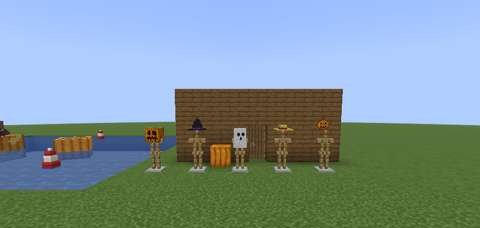
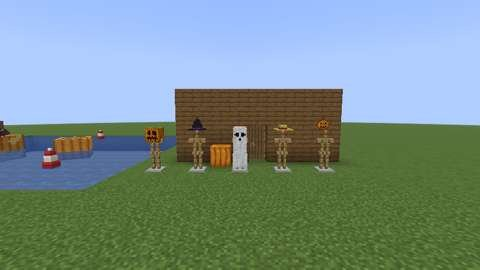
Document the draped Ghost Sheet
Feature record (what it looks like, how it is drawn, CI results on
449f61b: 199 game tests pass, client test passes, and what CI found on
the way), the Agriculture branch page with the new screenshots, and the
CHANGELOG.

Claude-Session: https://claude.ai/code/session_0126hvNUCuThWzVv935m75NC

diff --git a/docs/features/pumpkin-regatta-and-trick-or-treat.md b/docs/features/pumpkin-regatta-and-trick-or-treat.md
@@ -28,7 +28,7 @@ Primary specialty and supported player role: farming and play; supports groups (
    - someone lives there: a villager whose bed is within 12 blocks of the door.
 5. **Treat.** The villager opens the door and hands you a treat: candy corn, caramel, cookies, a popcorn ball, a caramel apple or, rarely, the **King-Size Candy Bar** (8 hunger), only from villagers. In a costume hat, one time in four you get a second treat. Each villager's home gives each player **one treat a night**.
 6. **Trick.** Knock at a home that has already given you a treat tonight and you get a harmless prank: a witch's cackle and a little hop, a flurry of bats and a moment of darkness, or the door slammed with a "no". Nothing is taken. Ten homes in one night earns the **Full Bag** advancement.
-7. **Costumes.** The **Witch Hat** (black wool and purple dye), the **Ghost Sheet** (white wool and black dye; you look out through its eye holes) and the **Scarecrow Hat** (wheat) go in the head slot and show on players and armor stands. Hand-carved pumpkins can now be worn too, like vanilla's carved pumpkin: you look out through the carving, and endermen take them as a disguise.
+7. **Costumes.** The **Witch Hat** (black wool and purple dye), the **Ghost Sheet** (white wool and black dye; it drapes over the whole wearer, a hood with eye holes over the head and the sheet over the body and arms to below the knees, moving with them; you look out through its eye holes) and the **Scarecrow Hat** (wheat) go in the head slot and show on players and armor stands. Hand-carved pumpkins can now be worn too, like vanilla's carved pumpkin: you look out through the carving, and endermen take them as a disguise.
 
 ## Connections
 - Existing input producer: the giant pumpkin and Carving Knife (boats), the Harvest Scale's ribbons (race prizes), Jugcraft candy corn, caramel, popcorn balls and caramel apples (treats), the turnip lantern, hand-carved pumpkins and lit giant pumpkins (porch lights); vanilla villages, wool, dye, wheat, paper, string, planks.
@@ -64,7 +64,7 @@ Primary specialty and supported player role: farming and play; supports groups (
 - New IDs only: entities `pumpkin_barge` and `pumpkin_racer`; items `pumpkin_barge`, `pumpkin_racer`, `candy_bag`, `king_size_candy_bar`, `witch_hat`, `ghost_sheet`, `scarecrow_hat`; blocks `regatta_flag` and `regatta_buoy`; the `jugcraft:pumpkin_boat` component. Hand-carved pumpkins gain the `equippable` component (head), so they can be worn; nothing about placed ones changes. The `agriculture` switch turns off the new recipes; placed blocks, boats and items stay.
 
 ## Dependencies and assets
-No new dependencies. Every texture is drawn by code (`tools/regatta_textures.py`): the boats' cut flesh, the ghost sheet's view, the flag, buoys, hats, bag, candy bar and boat icons. The boats are drawn from the giant pumpkin's own side tiles. The hats are 3D item models.
+No new dependencies. Every texture is drawn by code (`tools/regatta_textures.py`): the boats' cut flesh, the ghost sheet's view and the sheet as worn (`entity/ghost_sheet`, drawn over the wearer by the client's `GhostSheetLayer`), the flag, buoys, hats, bag, candy bar and boat icons. The boats are drawn from the giant pumpkin's own side tiles. The hats are 3D item models.
 
 ## Verification
 Actual results (1 October 2026, Minecraft 26.3, Fabric Loader 0.19.3, Fabric API 0.161.0+26.3, Temurin JDK 25.0.4, GitHub Actions):
@@ -98,6 +98,16 @@ The client game test (`RegattaClientGameTests`) builds a pond with a carved, lit
 Found by CI and fixed before this record:
 - 26.3 has no `PushReaction.DESTROY` (`POPPED`), its `PoseStack` turns with `rotateDegrees`, and vanilla entity types are looked up by ID in tests (compile errors).
 - Test 10 first checked the saved record by the clock time instead of the night number it is kept by; the test was wrong, not the game.
+
+**The Ghost Sheet after the owner's first look (1 October 2026).** It didn't fit over the character: as a head-slot item the game drew its small block model on the head only. A render layer now drapes the whole sheet over the wearer (every humanoid: players, costumed mobs, armor stands), fixed to the head, body, arms and thighs so it moves with them. Its equipment asset has no layers, which keeps the armor layer from drawing anything and the item from being drawn on the head, and is what puts it in the render state the layer reads. Results on `449f61b` (with the Halloween harvest's giant pumpkin and scarecrow fixes merged in):
+
+| Check | Result |
+| --- | --- |
+| `python3 scripts/check_repository.py`, `python3 tools/check_mod_data.py` | Pass (453 IDs) |
+| `./gradlew build` and the game tests on the headless server | **All 199 pass** |
+| Client game test (`RegattaClientGameTests`), with a close-up of the sheet on its armor stand and a third-person shot of the player wearing it | **Passes**; screenshots `ingame_ghost_sheet.jpg`, `ingame_ghost_sheet_worn.jpg` |
+
+Found by CI on the way: 26.3 has no `RenderTypes.entityCutoutNoCull` (its `entityCutout` already draws both sides), and the first working build drew nothing, because 26.3 only puts head equipment with an equipment asset in the render state (the screenshots showed a bare head); the empty asset fixed it.
 
 **Not run:**
 - a person playing it in a client, paddling a pumpkin boat (speed in water is only checked by its formula);

diff --git a/CHANGELOG.md b/CHANGELOG.md
@@ -12,7 +12,7 @@ No numbered release yet. Everything below is on `main`.
 - **Pumpkin boats:** sneak and use the Carving Knife on top of a giant pumpkin to hollow it out. A full-grown 3×3×3 one becomes a **Pumpkin Barge** (four seats; keeps its weight, carving and torch), a 2×2×2 one a **Pumpkin Racer** (one seat). Lighter boats are faster: racers 1.15–1.30× a boat, barges 0.70–0.95×. Broken, a boat gives back its item with everything it kept. Hollowing gives the guts and (full grown) the giant seeds instead of the pumpkins.
 - **The regatta:** a **Regatta Flag** and numbered **Regatta Buoys** on the water make a course. From a pumpkin boat's driver's seat, use the flag: after a countdown, round the buoys in order and come back. The server times the run; the flag keeps a board of the three best times and gives the Harvest Scale's ribbons once per racer. Advancement **Pumpkin Regatta**.
 - **Trick-or-treating**, only while the Halloween event runs (by default 20 October to 3 November; operators set `halloween.start`, `halloween.end`, `halloween.timezone` and `halloween.mode` in `config/jugcraft.properties`): use a **Candy Bag** on a villager's door between dusk and midnight, in costume, with a porch light by the door. Each home gives each player one treat a night (candy, caramel, cookies, popcorn balls, caramel apples, rarely a **King-Size Candy Bar**); knocking again gets a harmless prank. Ten homes in a night earn **Full Bag**. Who got what tonight is saved, so a restart or the event ending and starting again gives no second treat; treats and costumes stay after the event.
-- **Costumes:** **Witch Hat**, **Ghost Sheet** (you look out through its eye holes) and **Scarecrow Hat**, worn on the head. Hand-carved pumpkins can now be worn like vanilla's carved pumpkin (and fool endermen).
+- **Costumes:** **Witch Hat**, **Ghost Sheet** (draped over the whole wearer, hood to knees, moving with them; you look out through its eye holes) and **Scarecrow Hat**, worn on the head. Hand-carved pumpkins can now be worn like vanilla's carved pumpkin (and fool endermen).
 - The checker compares every boat, regatta and trick-or-treat number, tag and table with Java, and allows vanilla tab roots as advancement parents. New server game tests (including the seasonal rules: on, off, a restart, no duplicates, earned treats kept) and a client test with screenshots.
 
 ### Agriculture: the Halloween harvest (pull request pending, stacked on Pumpkin Carving)

diff --git a/docs/branches/AGRICULTURE.md b/docs/branches/AGRICULTURE.md
@@ -335,6 +335,8 @@ Two things to do with the Halloween harvest. The regatta works all year; trick-o
 | ![The regatta pond](../images/ingame_pumpkin_regatta.jpg) | ![A Pumpkin Barge and a Pumpkin Racer](../images/ingame_pumpkin_barge.jpg) |
 | **At midnight:** the barge's torch lights its carving | **Costumes:** a carved pumpkin, Witch Hat, Ghost Sheet, Scarecrow Hat and a hand-carved pumpkin, by a door with its jack o'lantern porch light |
 | ![The barge at night](../images/ingame_pumpkin_barge_night.jpg) | ![Costumes on armor stands](../images/ingame_costumes.jpg) |
+| **The Ghost Sheet** on its stand: a hood with eye holes, draped to the ground | **Worn by a player:** the sheet over the head, body and arms, moving with them |
+| ![The Ghost Sheet on an armor stand](../images/ingame_ghost_sheet.jpg) | ![A player wearing the Ghost Sheet](../images/ingame_ghost_sheet_worn.jpg) |
 
 *Real screenshots from the client game test that CI runs (`RegattaClientGameTests`, software rendering, small previews).*
 
